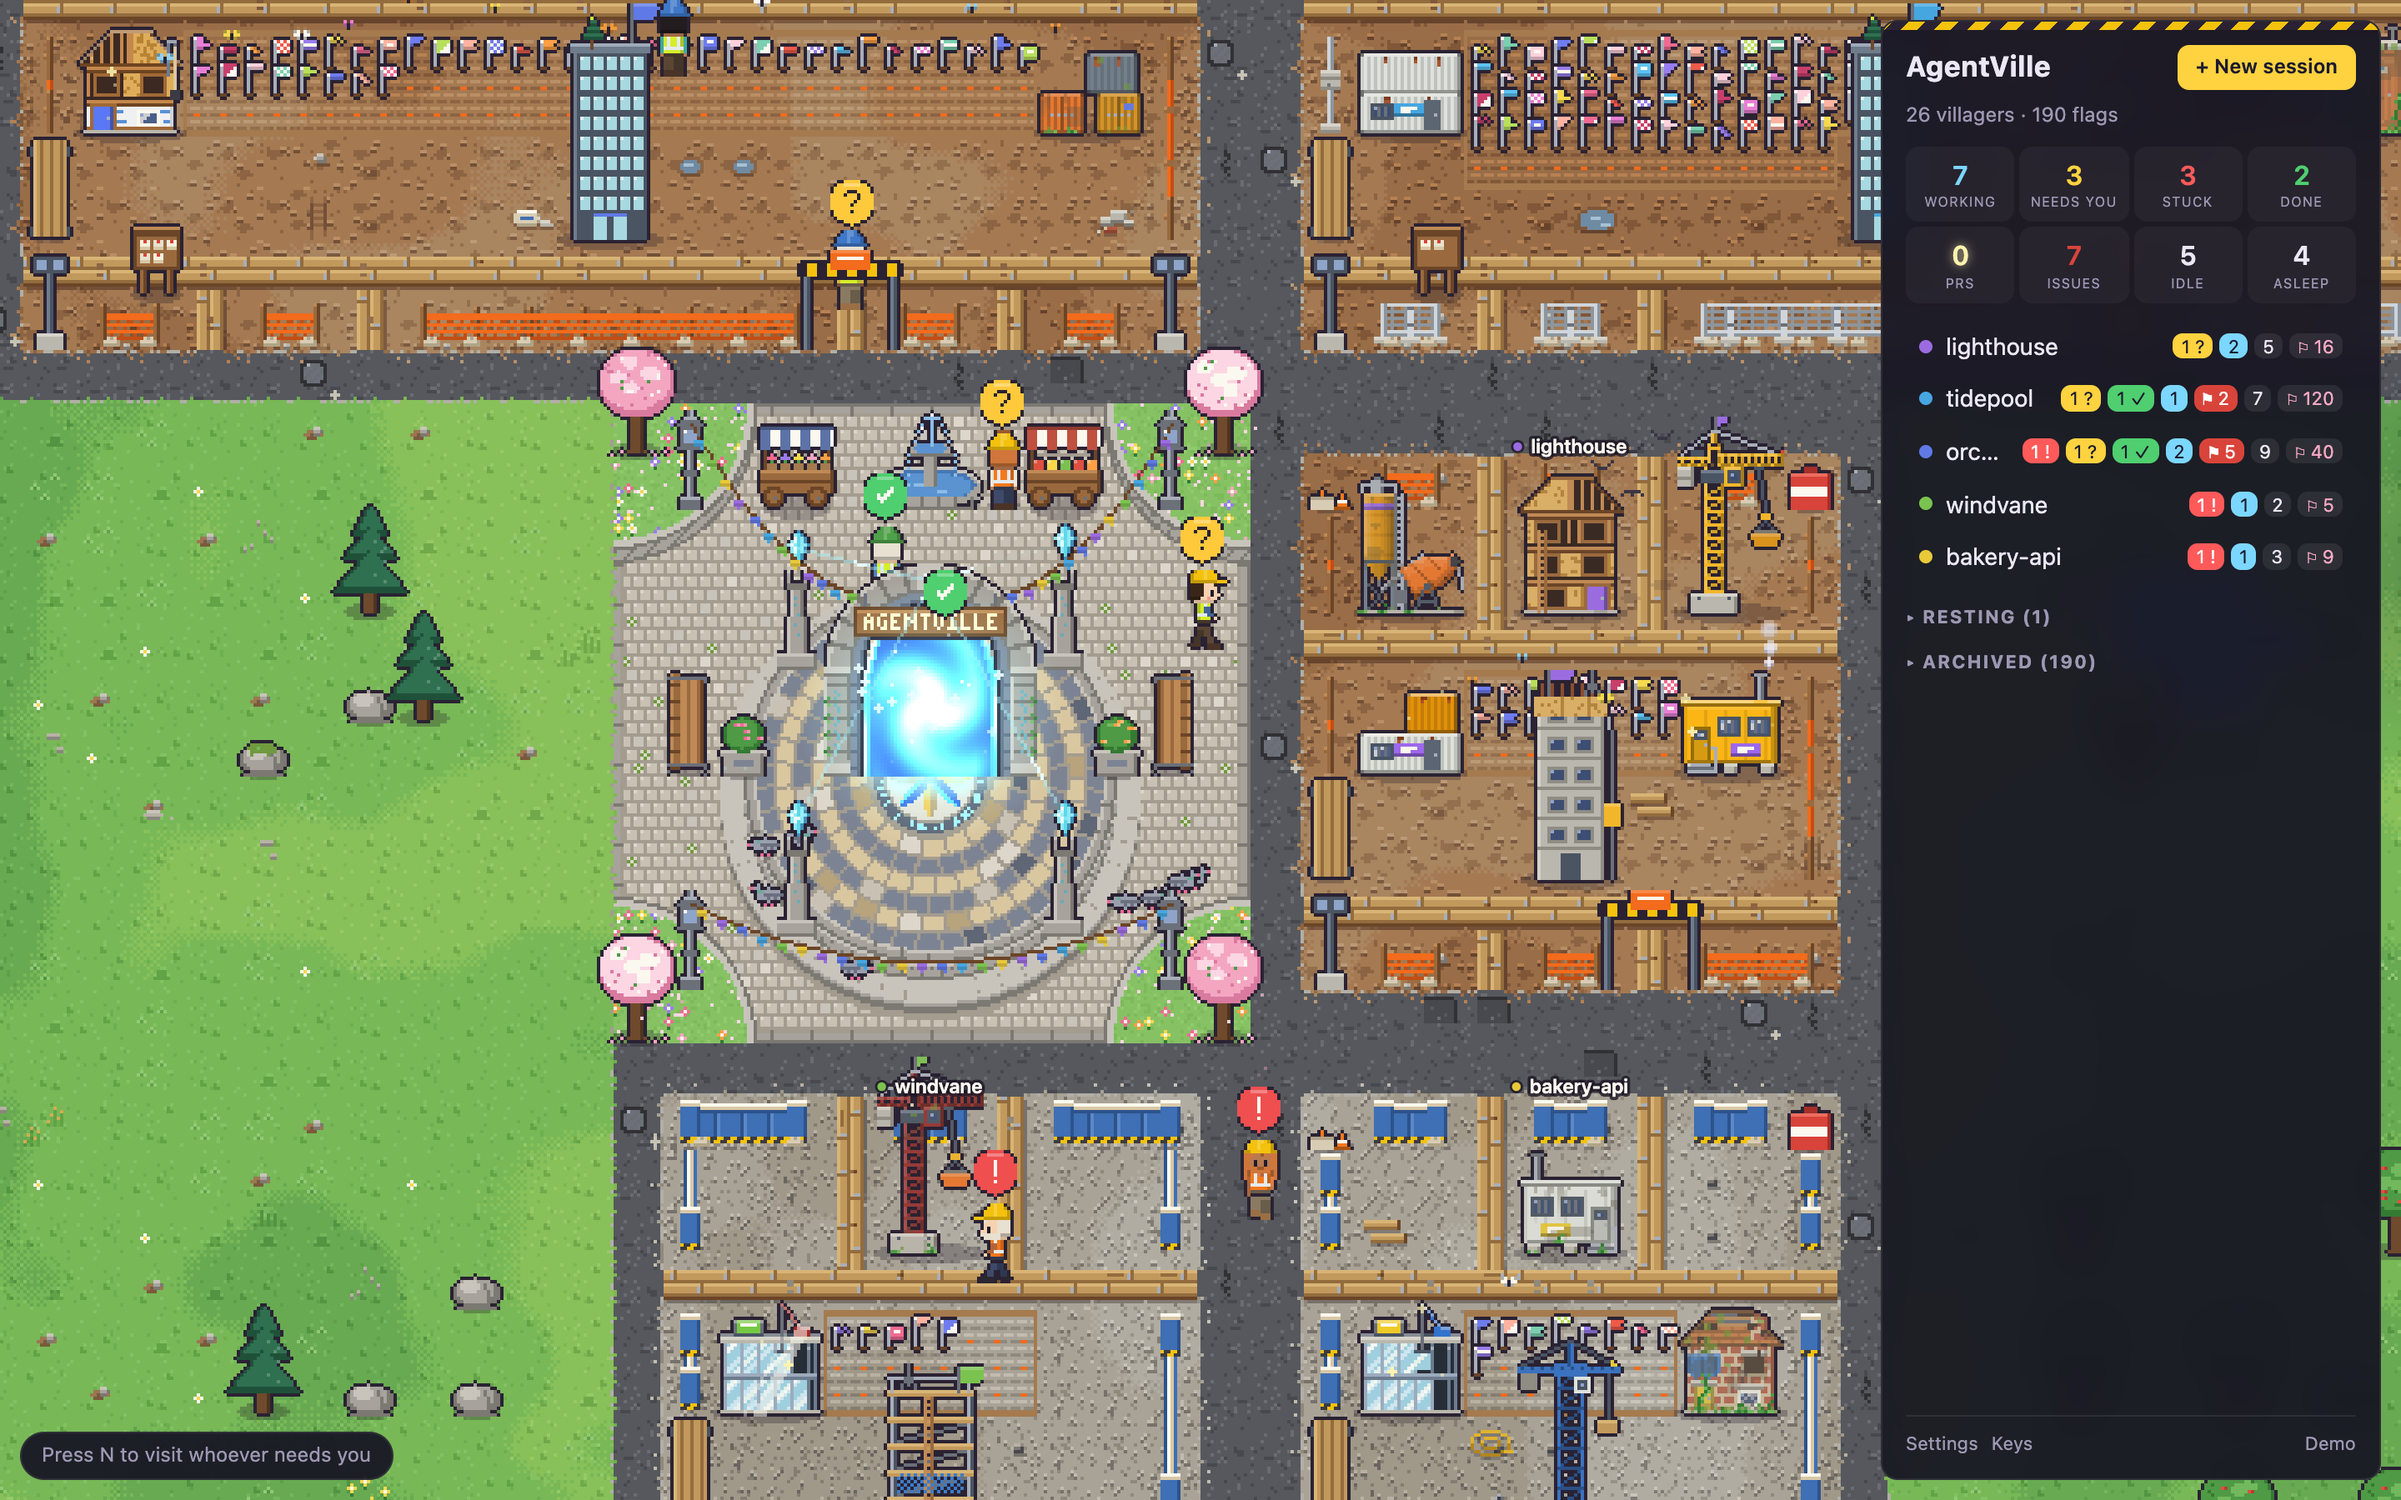
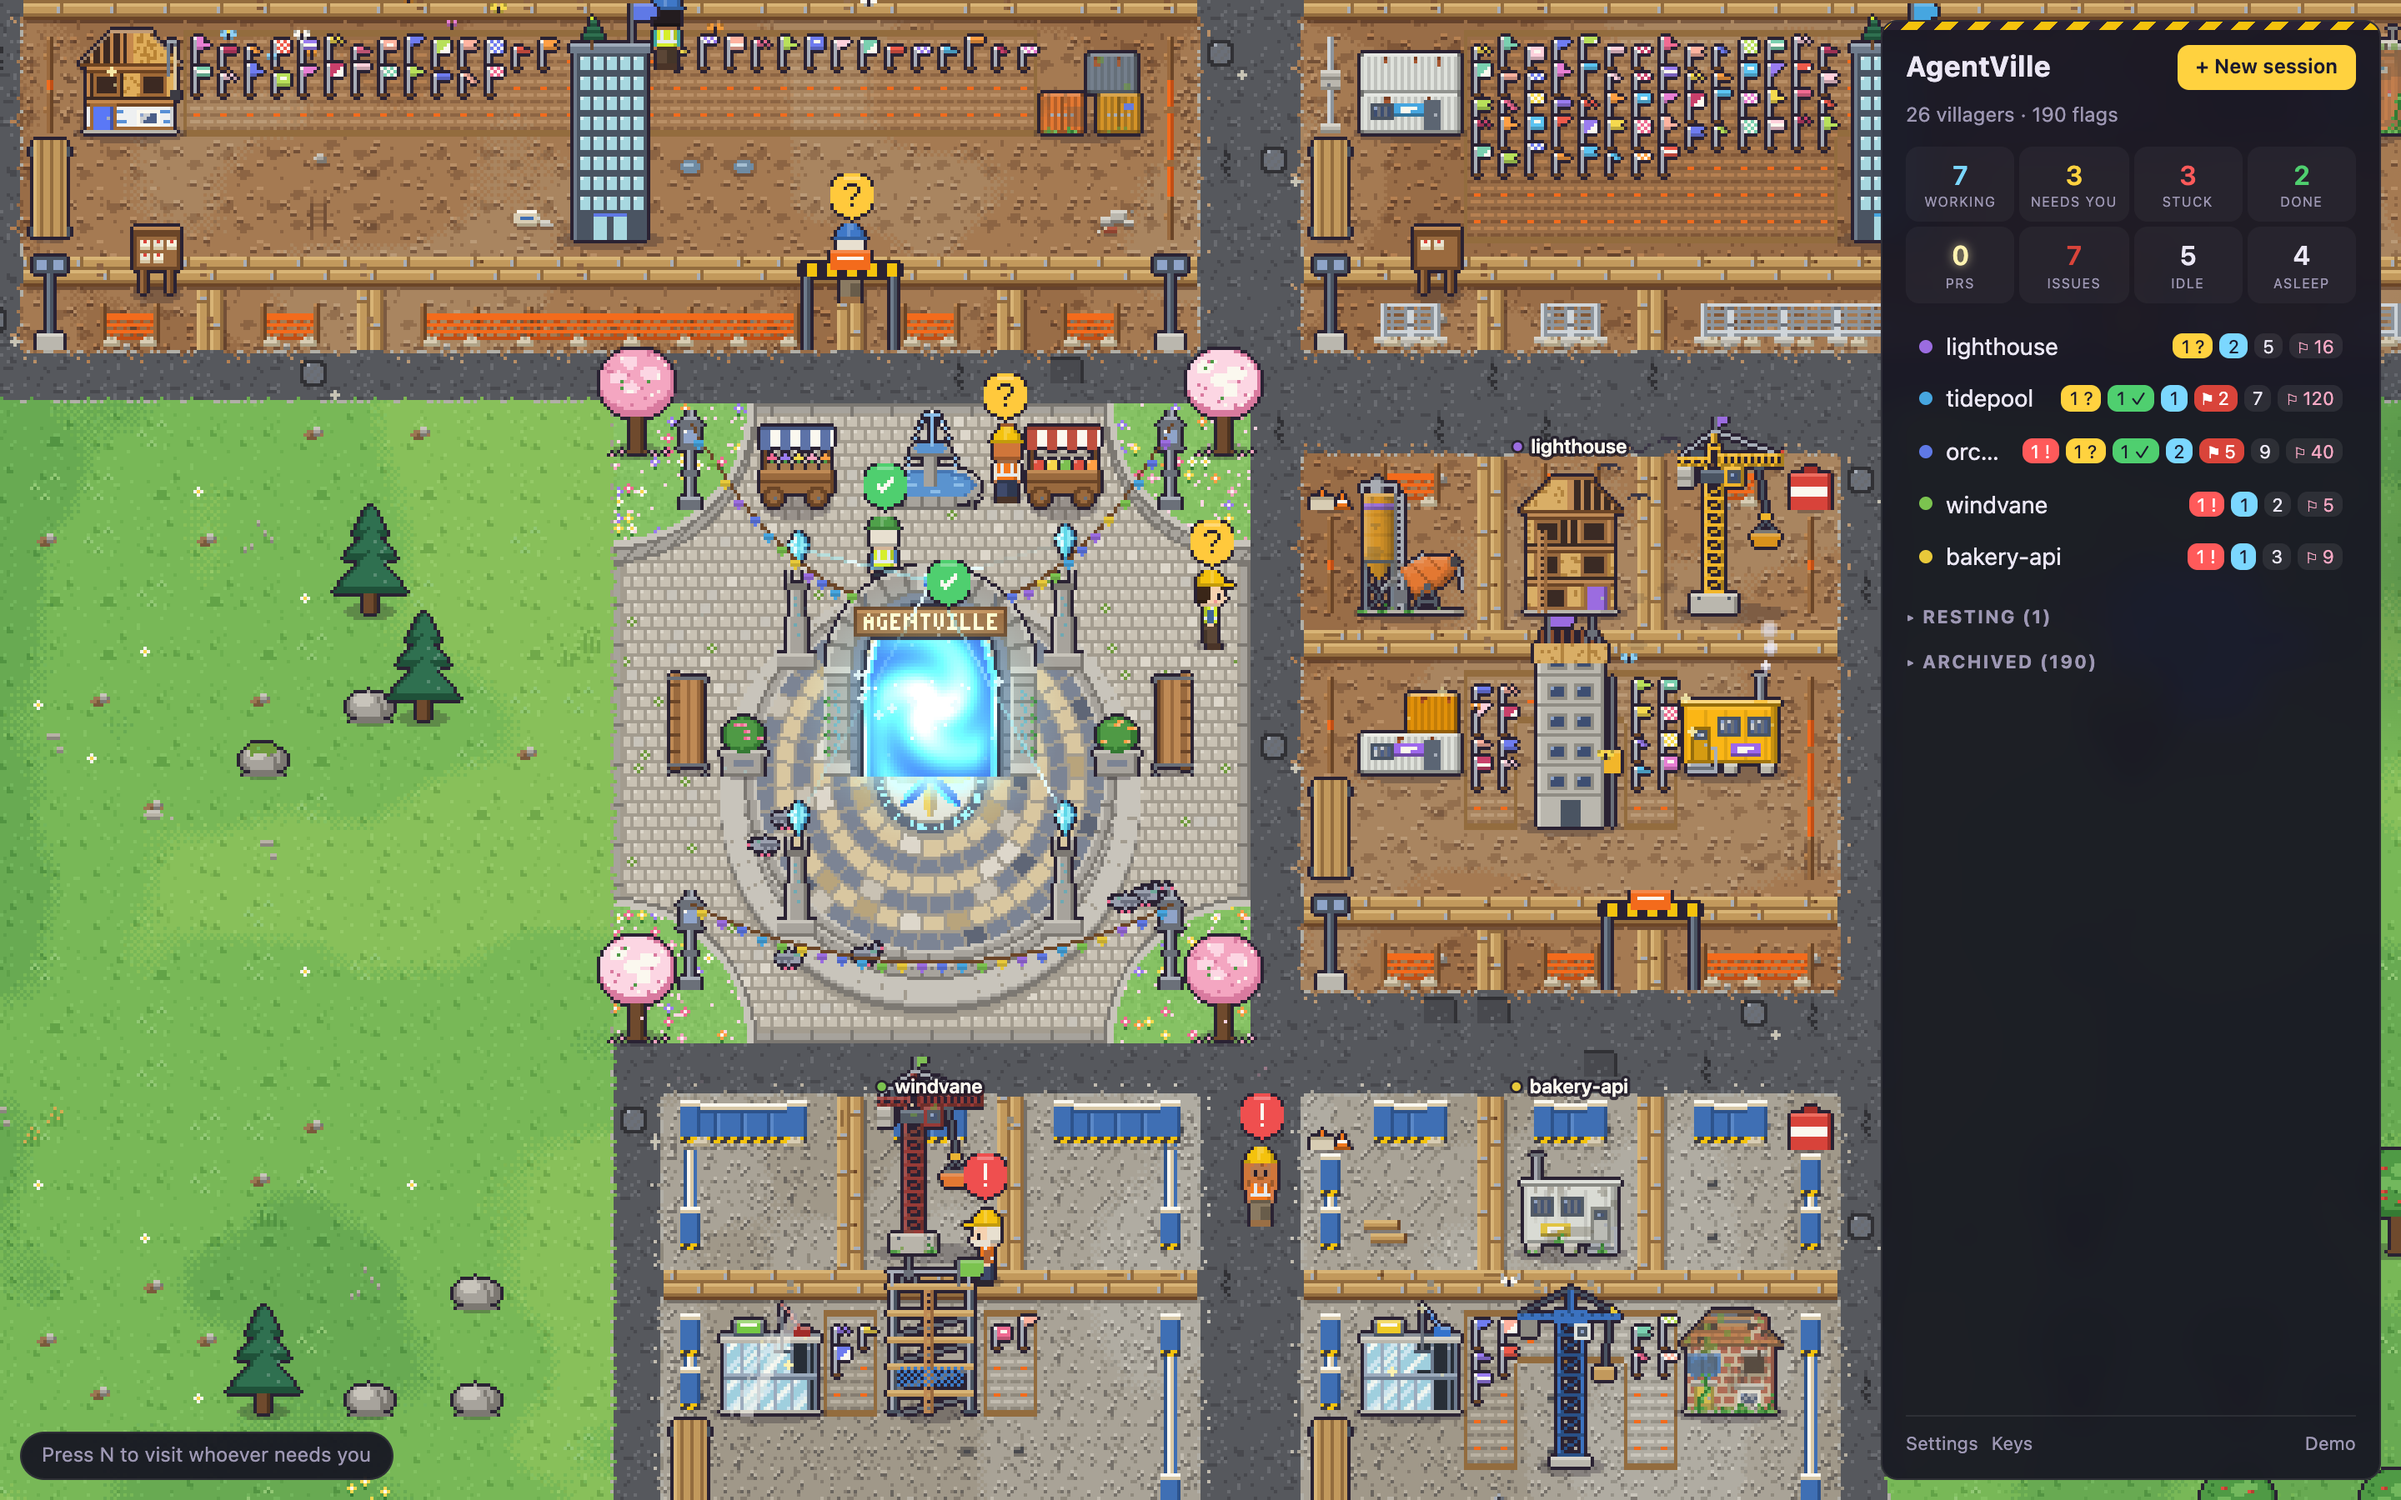
A landmark stands as high in its field as its own height allows, not the tallest
Every plot one cell tall has a field four rows deep, and the room kept above a
landmark was sized for the tallest tier there is: 72 px of keep needs two rows,
which left exactly one row a landmark could stand in. The spot picked made no
difference on any such plot — most of them — so the setting looked broken.

The clearance now follows the landmark's own tier. A campfire, a well and a
market cross top out below the walkway from the head of the field, so all three
spots are distinct; a chapel or a town hall has two rows to choose from; only a
keep, the tallest, still has the one. Deeper fields are unchanged.

A landmark therefore steps down its field as it grows, and the field is laid
out round it again where it stands, which is why a plot re-shapes on a tier as
well as on a spot. The layout is told the fewest flowers a field can hold, over
every spot and tier, so growing one never turns a flower away.

The heights table moves to src/sim/shape.js, where the field needs it; the
sprites and the theme packs read it from there.

diff --git a/src/sim/shape.js b/src/sim/shape.js
@@ -8,8 +8,8 @@
 //   _ . . . . . . . . . . _     the top walkway: every top house's door opens onto it
 //   . F H H # # # # H H F .     #  the field; side houses stand either side of it
 //   . F H H # # # # H H F .
-//   . F . . # L L # . . F .     L  the landmark: at the head of the field where the field is
-//   . F . . # L L # . . F .        deep enough, here pushed down by a shallow one; work grows round it
+//   . F . . # L L # . . F .     L  the landmark, at the head of its field — here a tall one in a
+//   . F . . # L L # . . F .        shallow field, so it stands as high as the houses allow
 //   _ . . B . . . . . . . _     the bottom walkway; B the notice board
 //   . F F F _ F F _ F F F .
 //   R R R R R R R R R R R R
@@ -25,18 +25,26 @@ const PX = 16
 export const LANDMARK_W = 2
 export const LANDMARK_H = 2
 /**
- * Rows of field kept between the top walkway and the landmark. Its tallest tier is 72 px, two and
- * a half tiles above its footprint; two rows keep that clear of the walkway row where the top
- * houses' doors are, and of whoever stands at them.
+ * How tall a landmark of each tier is drawn, in pixels; every theme's pack draws to these (see
+ * src/render/sprites/landmarks.js). The field has them because a landmark's own height decides how
+ * much room it needs above it: a campfire can stand at the head of a shallow field where a keep
+ * cannot, and a field four rows deep has room for one row of keep and three of campfire.
  */
-const LANDMARK_CLEAR = 2
+export const LANDMARK_HEIGHTS = [24, 40, 48, 56, 64, 72]
+const heightOf = (tier) => LANDMARK_HEIGHTS[Math.max(0, Math.min(LANDMARK_HEIGHTS.length - 1, Math.floor(Number(tier) || 0)))]
 /**
- * The band above the landmark's footprint its sprite fills, in tiles: the tallest tier is 72 px
- * (LANDMARK_HEIGHTS in src/render/sprites/landmarks.js), of which two rows stand on the footprint,
- * plus the 2 px a flower's sprite hangs below its own spot. A flower whose spot is in that band,
- * in the two columns the landmark is wide, stands behind it and is hidden by it.
+ * Rows of field kept between the top walkway and a landmark of this tier: enough that its sprite,
+ * which stands on its footprint and rises from there, tops out no higher than the walkway row. Any
+ * higher and it would reach the doorsteps of the houses above, and whoever stands at them. The
+ * field's first row is one below the walkway, hence the extra row here.
  */
-const LANDMARK_RISE = (72 - LANDMARK_H * PX + 2) / PX
+const clearFor = (tier) => Math.max(0, Math.ceil(heightOf(tier) / PX - LANDMARK_H - 1))
+/**
+ * The band above a landmark's footprint its sprite fills, in tiles: its height less the two rows
+ * standing on the footprint, plus the 2 px a flower's sprite hangs below its own spot. A flower
+ * whose spot is in that band, in the two columns the landmark is wide, stands behind it, hidden.
+ */
+const riseFor = (tier) => (heightOf(tier) - LANDMARK_H * PX + 2) / PX
 /**
  * Where a landmark stands in its field. At its head by default: the strip it can hide is then the
  * one between it and the top walkway, and the field grows away from it, in front of it.
@@ -79,8 +87,10 @@ export function isRect(cells) {
  * The courtyard of a rectangle of cells, in world tiles.
  * @param {{ cx: number, cy: number, w: number, h: number }} rect  in cells
  * @param {string} [spot] where its landmark stands in the field; one of LANDMARK_SPOTS
+ * @param {number} [tier] how far its landmark has risen: a taller one needs more room above it,
+ *        so it stands further down a shallow field, and hides more of the field behind it
  */
-export function shapeOf({ cx, cy, w, h }, spot = DEFAULT_SPOT) {
+export function shapeOf({ cx, cy, w, h }, spot = DEFAULT_SPOT, tier = 0) {
   const x0 = cx * CELL_TILES
   const y0 = cy * CELL_TILES
   const W = w * CELL_TILES
@@ -111,18 +121,21 @@ export function shapeOf({ cx, cy, w, h }, spot = DEFAULT_SPOT) {
     rows: Math.floor((bed.h * PX - FLOWER_TOP) / FLOWER_PITCH),
   }
   // The landmark: across the middle of the field, and as far down it as `spot` asks, but never so
-  // near the top walkway that its tallest tier reaches the doorsteps above. A field too shallow
-  // for the spot asked takes the lowest row that fits, so the walkway always wins.
-  const down = { top: LANDMARK_CLEAR, middle: Math.floor((bed.h - LANDMARK_H) / 2), bottom: bed.h - LANDMARK_H }
+  // near the top walkway that it reaches the doorsteps above. A field too shallow for the spot
+  // asked takes the lowest row that fits, so the houses always win: on a field four rows deep, a
+  // keep stands in the one row left to it while a campfire has all three to choose from.
+  const clear = clearFor(tier)
+  const down = { top: clear, middle: Math.floor((bed.h - LANDMARK_H) / 2), bottom: bed.h - LANDMARK_H }
   const landmark = {
     x: bed.x + Math.floor((bed.w - LANDMARK_W) / 2),
-    y: Math.min(bed.y + bed.h - LANDMARK_H, Math.max(bed.y + LANDMARK_CLEAR, bed.y + down[landmarkSpotOf(spot)])),
+    y: Math.min(bed.y + bed.h - LANDMARK_H, Math.max(bed.y + clear, bed.y + down[landmarkSpotOf(spot)])),
     w: LANDMARK_W,
     h: LANDMARK_H,
   }
   // Every spot in the field a flower can stand, in the order they fill: a row at a time, left to
-  // right. None on the landmark's footprint, and the ones in the band its tallest tier rises
-  // through come last, so nothing is planted out of sight behind it while the field has open ground.
+  // right. None on the landmark's footprint, and the ones in the band its sprite rises through
+  // come last, so nothing is planted out of sight behind it while the field has open ground.
+  const rise = riseFor(tier)
   const spots = []
   const behind = []
   for (let row = 0; row < flowers.rows; row++) {
@@ -131,7 +144,7 @@ export function shapeOf({ cx, cy, w, h }, spot = DEFAULT_SPOT) {
       const y = bed.y + (FLOWER_TOP + row * FLOWER_PITCH + FLOWER_PITCH - 1) / PX
       const under = x >= landmark.x && x < landmark.x + landmark.w
       if (under && y >= landmark.y && y < landmark.y + landmark.h) continue
-      ;(under && y > landmark.y - LANDMARK_RISE && y < landmark.y ? behind : spots).push({ x, y, row })
+      ;(under && y > landmark.y - rise && y < landmark.y ? behind : spots).push({ x, y, row })
     }
   }
   spots.push(...behind)
@@ -150,15 +163,26 @@ export function shapeOf({ cx, cy, w, h }, spot = DEFAULT_SPOT) {
 const capacities = new Map()
 /**
  * How many houses and flowers a plot of w×h cells holds. It holds the same wherever its landmark
- * stands: the footprint covers a whole number of flower rows and columns, and the spots the
- * landmark hides are kept, only taken last. test/shape.test.mjs holds that true, and if it ever
- * parts this and layout.js have to be told where each plot's landmark stands.
+ * stands and however tall it has grown: the footprint covers a whole number of flower rows and
+ * columns, and the spots the landmark hides are kept, only taken last. test/shape.test.mjs holds
+ * that true, and if it ever parts this and layout.js have to be told about each plot's landmark.
  */
 export function capacityOf(w, h) {
   const k = `${w}x${h}`
   if (!capacities.has(k)) {
-    const s = shapeOf({ cx: 0, cy: 0, w, h })
-    capacities.set(k, { slots: s.slots.length, flowers: s.spots.length })
+    // The fewest it can hold: a landmark at the very head of the field covers three rows of spots
+    // and anywhere lower covers four, and a plot must never be handed more flowers than it has
+    // spots for. One cell more of plot is a smaller price than a flower that never appears.
+    let flowers = Infinity
+    let slots = 0
+    for (const spot of LANDMARK_SPOTS) {
+      for (let tier = 0; tier < LANDMARK_HEIGHTS.length; tier++) {
+        const s = shapeOf({ cx: 0, cy: 0, w, h }, spot, tier)
+        flowers = Math.min(flowers, s.spots.length)
+        slots = s.slots.length
+      }
+    }
+    capacities.set(k, { slots, flowers })
   }
   return capacities.get(k)
 }

diff --git a/src/sim/plot.js b/src/sim/plot.js
@@ -51,19 +51,16 @@ export class Plot {
     const next = landmarkSpotOf(spot)
     const changed = next !== this.spot
     this.spot = next
-    // The field's spots are laid out round the landmark, so the soil is worked out again with them.
-    if (changed && this.shape) {
-      this._reshape()
-      this.setPlanted(this.planted)
-    }
+    if (changed && this.shape) this._reshape()
     return changed
   }
 
-  /** Lay the courtyard out again: after the plot's cells change, or its landmark moves. */
+  /** Lay the courtyard out again: after the plot's cells change, its landmark moves, or it grows. */
   _reshape() {
-    this.shape = shapeOf(rectOf(this.cells), this.spot)
+    this.shape = shapeOf(rectOf(this.cells), this.spot, this.tier)
     this.slotKeys = this.shape.slots.map((s) => key(s.x, s.y))
     this.props = propsOf(this.shape, this.tier)
+    this.tilled = tilledRows(this.shape, Math.min(this.planted, this.flowerCapacity))
   }
 
   /** Dress the plot in another style: a new theme, or another sub-theme. True if its look changed. */
@@ -82,11 +79,15 @@ export class Plot {
     return changed
   }
 
-  /** Raise (or set) its landmark's tier. True if that changes what stands on it. */
+  /**
+   * Raise (or set) its landmark's tier. True if that changes what stands on the plot. A taller
+   * landmark needs more room above it, so a tier can move it down a shallow field, and the field
+   * is laid out round it again where it now stands.
+   */
   setTier(tier) {
     const changed = tier !== this.tier
     this.tier = tier
-    if (changed && this.shape) this.props = propsOf(this.shape, tier)
+    if (changed && this.shape) this._reshape()
     return changed
   }
 

diff --git a/src/render/sprites/landmarks.js b/src/render/sprites/landmarks.js
@@ -14,13 +14,15 @@ import { PixelCanvas } from './pixel.js'
 import { BUILDING_W, ROOF_FAMILIES, drawDoor, drawGableRoof, drawWalls, drawWindow } from './buildings.js'
 import { mulberry32 } from '../../sim/rng.js'
 import { WALLS } from '../../sim/style.js'
+import { LANDMARK_HEIGHTS } from '../../sim/shape.js'
 
 export const LANDMARK_W = BUILDING_W
 /**
- * Height by tier. 72 at most: the footprint stands two rows down the field (LANDMARK_CLEAR in
- * src/sim/shape.js), and anything taller would reach the doorsteps of the houses above it.
+ * Height by tier, from the field's own copy: how tall each tier stands is what decides how far
+ * down its field a landmark has to stand to keep the houses above it clear (see src/sim/shape.js).
+ * 72 at most, or the tallest tier would have nowhere to stand in a one-cell plot's field.
  */
-export const LANDMARK_HEIGHTS = [24, 40, 48, 56, 64, 72]
+export { LANDMARK_HEIGHTS }
 const TOP_TIER = LANDMARK_HEIGHTS.length - 1
 
 const tierOf = (tier) => Math.max(0, Math.min(TOP_TIER, Math.floor(Number(tier) || 0)))

diff --git a/README.md b/README.md
@@ -186,6 +186,9 @@ At the head of every garden stands what the work in that repo has raised. It sta
 campfire and climbs, a tier at a time, to a well, a market cross, a chapel, a town hall and a
 keep. **Settings → Landmarks stand** moves them all to the middle of the garden or to its foot,
 and **Landmark** in a folder's panel stands that one plot's where you like, whatever the rest do.
+A landmark never stands so high that it reaches the houses above it, so the taller it grows the
+further down its garden it steps: a one-cell plot's garden, four rows deep, has three rows to
+stand a campfire in and only one to stand a keep.
 When a repo reaches the next tier the new one goes up in front of you, foundations first,
 and everybody on the plot gets confetti. Each tier also brings something to the plot's fence
 line: a lamp, then a bench, planters at the corners, a rose arch over the gate, and a second lamp.
